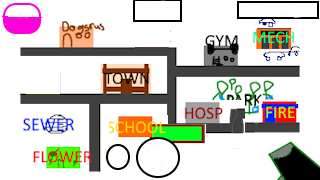
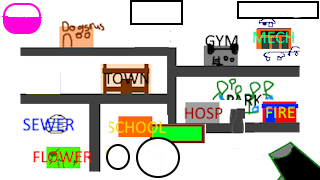
Add entity shooting and preview + timer

Changed region(s): [[0.4062, 0.0, 0.5938, 0.1389]]

diff --git a/jerboa_jam_2026/src/main.cpp b/jerboa_jam_2026/src/main.cpp
@@ -1,4 +1,5 @@
 
+#include <format>
 #include <optional>
 #include <string>
 #include <type_traits>
@@ -7,9 +8,14 @@
 #include "core/event/dispatcher.h"
 #include "core/log.h"
 #include "core/math/geometry/origin.h"
+#include "core/math/rng.h"
 #include "core/math/vector2.h"
+#include "core/time/time.h"
+#include "core/util/span.h"
 #include "nlohmann/json.hpp"
+#include "platform/input/events.h"
 #include "platform/window/window.h"
+#include "runtime/animation/tween_effect.h"
 #include "runtime/asset/asset_manager.h"
 #include "runtime/ecs/component.h"
 #include "runtime/ecs/entity.h"
@@ -17,8 +23,11 @@
 #include "runtime/graphics/render_context.h"
 #include "runtime/graphics/shape.h"
 #include "runtime/graphics/sprite.h"
+#include "runtime/physics/lifetime.h"
+#include "runtime/physics/rigid_body.h"
 #include "runtime/scene/scene.h"
 #include "runtime/scene/scene_input.h"
+#include "runtime/scripting/script_sequence.h"
 #include "runtime/scripting/scripts.h"
 #include "runtime/ui/interactive.h"
 
@@ -28,6 +37,7 @@ constexpr V2_float game_size{ 320, 180 };
 
 struct Location {
 	std::string name;
+	std::vector<std::string> entities;
 };
 
 class LocationScript : public Script {
@@ -37,48 +47,176 @@ public:
 			if (e.button != Mouse::Left) {
 				return;
 			}
-			PTGN_LOG("Player clicked location: ", entity.Get<Location>().name);
+			auto& location{ entity.Get<Location>() };
+			PTGN_LOG(
+				"Player clicked location: ", location.name,
+				", correct entities: ", location.entities
+			);
 		});
 	}
 };
+
+V2_float ArcPosition(V2_float start, V2_float end, float t) {
+	V2_float pos = Lerp(start, end, t);
+
+	float height_offset	 = std::sin(t * pi<float>);
+	pos.y				+= -height_offset * (end - start).Magnitude() * 0.2f;
+
+	return pos;
+}
+
+std::string FormatDuration(milliseconds ms) {
+	auto total_seconds = duration_cast<seconds>(ms);
+	auto minute		   = duration_cast<minutes>(total_seconds);
+	auto second		   = total_seconds - minute;
+	return std::format("{}:{:02}", minute.count(), second.count());
+}
 
 class GameScene : public Scene {
 public:
 	Sprite cursor;
 
+	std::vector<std::string> entities;
+
+	std::deque<std::string> next_entity;
+
+	Sprite preview_first;
+	Sprite preview_second;
+
+	Text remaining_text;
+
+	static constexpr milliseconds level_duration{ 10s };
+	static constexpr V2_float cannon_firing_point{ V2_float{ 283, 151 } - game_size / 2.0f };
+	static constexpr V2_float preview_first_pos{ V2_float{ 157, 157 } - game_size / 2.0f };
+	static constexpr V2_float preview_second_pos{ V2_float{ 117, 157 } - game_size / 2.0f };
+	static constexpr float standard_distance		= 280.0f;
+	static constexpr milliseconds standard_duration = 1000ms;
+
 	void CreateLocation(
-		const std::string& name, V2_float position, V2_float hitbox_position, V2_float hitbox_size
+		const std::string& name, const std::vector<std::string>& location_entities,
+		V2_float position, V2_float hitbox_position, V2_float hitbox_size
 	) {
 		auto location = CreateSprite(*this, name, position, Origin::TopLeft);
-		location.Add<Location>(name);
+		location.Add<Location>(name, location_entities);
 		SetInteractiveRect(location, hitbox_position, hitbox_size, Origin::TopLeft, name);
 		AddScript<LocationScript>(location);
 	}
 
-	void OnEnter() override {
-		ctx().input.SetSettings({ .debug_draw_enabled = true });
+	std::string RandomChoice() const {
+		auto next_choice = RandomNumber(0ULL, entities.size() - 1);
+		PTGN_ASSERT(next_choice < entities.size());
+		return entities[next_choice];
+	}
 
+	void ShootEntity() {
+		auto mouse_pos{ ctx().input.GetMousePosition() };
+		auto dist_to_cannon = cannon_firing_point - mouse_pos;
+		// PTGN_LOG("Mouse pos: ", mouse_pos, ", cannon: ", cannon_firing_point);
+		// PTGN_LOG("dist_to_cannon: ", dist_to_cannon);
+		// PTGN_LOG("dist_to_cannon.Magnitude(): ", dist_to_cannon.Magnitude());
+		// PTGN_LOG("distance_ratio: ", distance_ratio);
+		float distance_ratio = dist_to_cannon.Magnitude() / standard_distance;
+		milliseconds flight_duration{
+			static_cast<std::size_t>(standard_duration.count() * distance_ratio)
+		};
+		std::string choice = next_entity.front();
+		next_entity.pop_front();
+		next_entity.push_back(RandomChoice());
+
+		PTGN_ASSERT(next_entity.size() == 2);
+
+		std::string next_choice		 = next_entity.front();
+		std::string next_next_choice = next_entity.back();
+
+		preview_first.SetTexture(next_choice);
+		preview_second.SetTexture(next_next_choice);
+
+		V2_float start{ cannon_firing_point };
+		auto entity = CreateSprite(*this, choice, start);
+
+		V2_float end{ mouse_pos };
+
+		struct EntityArcPath {};
+
+		auto direction{ RandomNumber(-1, 1) };
+		auto angle{ DegToRad(RandomNumber(0.0f, 360.0f)) };
+
+		GetTween<EntityArcPath>(entity)
+			.During(flight_duration)
+			.OnProgress([angle, direction, start, end, distance_ratio](Entity e, float t) {
+				auto parent{ GetParent(e) };
+				if (direction == 0) {
+					SetRotation(parent, angle);
+				} else {
+					SetRotation(parent, direction * t * 3.0f * distance_ratio * DegToRad(360.0f));
+				}
+				SetPosition(parent, ArcPosition(start, end, t));
+			})
+			.OnComplete([this](Entity e) {
+				auto parent{ GetParent(e) };
+				FadeOut(parent, 200ms).OnComplete([](Entity e) { GetParent(e).Destroy(); });
+			})
+			.Start();
+	}
+
+	void OnEnter() override {
 		// ctx().window.SetOSCursorVisibility(false);
-		//  ctx().window.SetCursor("assets/ui/cursor.png", { 0, 0 });
 		ctx().asset.LoadDirectory("assets");
 		ctx().renderer.SetGameSize(game_size);
-
-		CreateSprite(*this, "bg");
-
-		cursor = CreateSprite(*this, "cursor", ctx().input.GetMousePosition());
-		SetDepth(cursor, 1000);
+		ctx().input.SetSettings({ .debug_draw_enabled = true });
 
 		std::reference_wrapper<json> data_ref = ctx().asset.GetJson("data").value();
 		const auto& data					  = data_ref.get();
 
+		entities = data.at("entities").get<std::vector<std::string>>();
+
+		next_entity.push_back(RandomChoice());
+		next_entity.push_back(RandomChoice());
+
+		CreateSprite(*this, "bg");
+
+		PTGN_ASSERT(next_entity.size() == 2);
+
+		preview_first  = CreateSprite(*this, next_entity.front(), preview_first_pos);
+		preview_second = CreateSprite(*this, next_entity.back(), preview_second_pos);
+		SetScale(preview_second, 0.5f);
+
+		cursor = CreateSprite(*this, "cursor", ctx().input.GetMousePosition());
+		SetDepth(cursor, 1000);
+
+		PTGN_LOG("Entities: ", entities);
+
 		for (const auto& location : data.at("locations")) {
-			std::string name		  = location.at("name");
+			std::string name = location.at("name");
+			PTGN_ASSERT(location.at("entities").is_array(), "Entities must be array");
+			std::vector<std::string> location_entities =
+				location.at("entities").get<std::vector<std::string>>();
 			V2_float position		  = location.at("position");
 			position				 -= game_size / 2.0f;
 			V2_float hitbox_position  = location.at("hitbox_position");
 			V2_float hitbox_size	  = location.at("hitbox_size");
-			CreateLocation(name, position, hitbox_position, hitbox_size);
+			CreateLocation(name, location_entities, position, hitbox_position, hitbox_size);
 		}
+
+		CreateScriptSequence(*this)
+			.Wait(1s)
+			.During(
+				level_duration,
+				[this](Entity e) {
+					auto elapsed{ Tween{ GetChild(e, "tween") }.GetProgress() };
+					auto remaining_time_text = FormatDuration(
+						level_duration -
+						milliseconds{
+							static_cast<std::size_t>(FastFloor(elapsed * level_duration.count())) }
+					);
+					remaining_text.SetContent(remaining_time_text);
+				}
+			)
+			.Then([]() { PTGN_LOG("You lost"); })
+			.Start();
+
+		remaining_text = CreateText(*this, FormatDuration(level_duration), color::Black, 24);
+		SetPosition(remaining_text, V2_float{ 156, 12 } - game_size / 2.0f);
 	}
 
 	void OnUpdate() override {
@@ -91,7 +229,14 @@ public:
 		ctx().window.SetOSCursorVisibility(true);
 	}
 
-	void OnEvent(EventDispatcher d) override {}
+	void OnEvent(EventDispatcher d) override {
+		d.Dispatch<MousePressed>([this](MousePressed& e) {
+			if (e.button != Mouse::Left) {
+				return;
+			}
+			ShootEntity();
+		});
+	}
 };
 
 int main(int, char**) {
